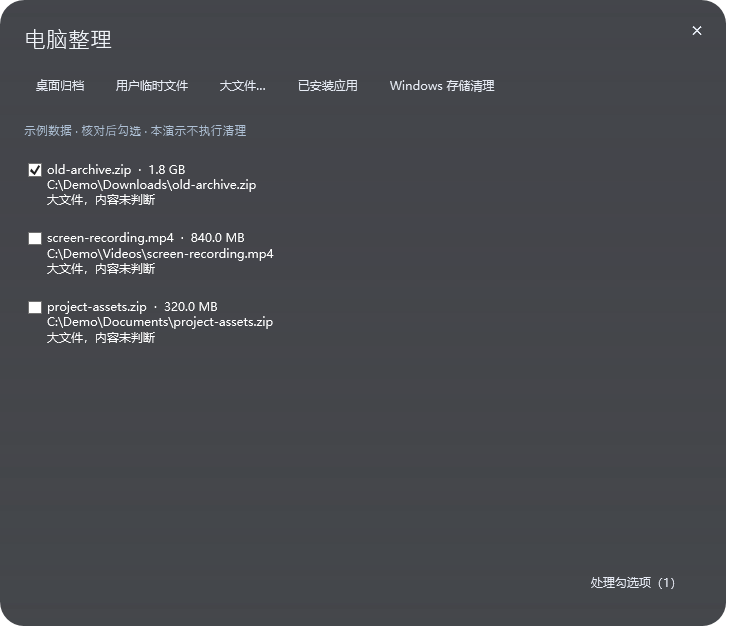
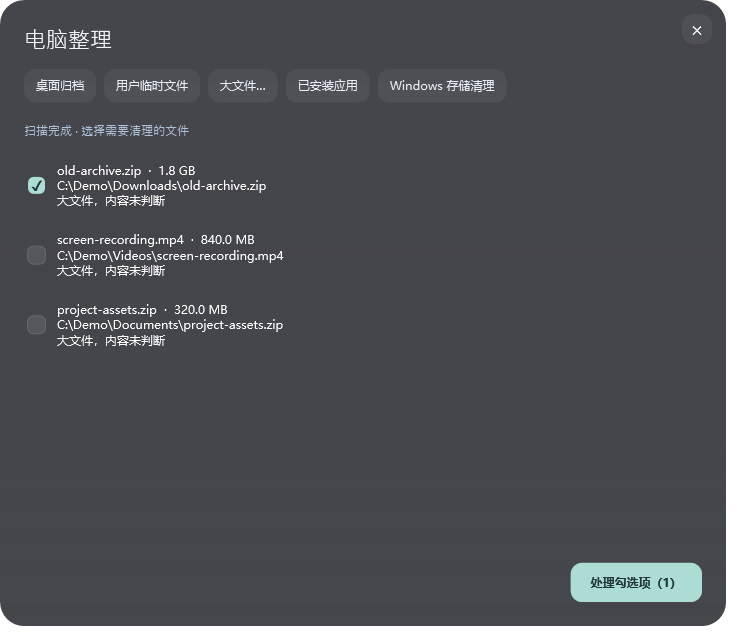
Publish refined film, updated screenshots and npm Windows release packaging

diff --git a/film/src/MinimalPromo.tsx b/film/src/MinimalPromo.tsx
@@ -19,8 +19,9 @@ const cameras=[
  {t:39.5,x:930,y:812,z:2.35}, {t:41.5,x:930,y:812,z:2.35},
  {t:43,x:800,y:800,z:1.4}, {t:46,x:800,y:800,z:1.4},
  {t:47.5,x:800,y:450,z:1.12}, {t:55.5,x:800,y:450,z:1.16},
- {t:57,x:800,y:450,z:1.16}, {t:58,x:620,y:610,z:1.3},
- {t:59.5,x:440,y:805,z:2.05}, {t:62,x:440,y:805,z:2.05},
+ {t:57,x:800,y:450,z:1.16}, {t:58,x:700,y:410,z:1.5},
+ {t:58.6,x:650,y:470,z:1.6}, {t:59.1,x:540,y:640,z:1.8},
+ {t:59.8,x:440,y:805,z:2.05}, {t:62,x:440,y:805,z:2.05},
  {t:64,x:800,y:800,z:1.4}, {t:66,x:800,y:800,z:1.43},
 ];
 const Native:React.FC=()=>{

diff --git a/src/FluidDock.cs b/src/FluidDock.cs
@@ -162,7 +162,7 @@ baseWidth=x;if(plateWidth<=0)plateWidth=baseWidth;LayoutDock();if(search!=null)s
  ContextMenu Menu(){
  var m=new ContextMenu();MenuAction(m,"搜索应用    Ctrl + 空格",ToggleSearch);MenuAction(m,"添加软件…",()=>OpenManager("add"));MenuAction(m,"一键配置…",OpenSetup);MenuAction(m,"电脑整理…",OpenCare);MenuAction(m,"小助手",()=>OpenManager("assistant"));MenuAction(m,"移除入口…",()=>OpenManager("remove"));MenuAction(m,"添加搜索目录…",ChooseSearchRoot);MenuAction(m,"按使用习惯智能整理",()=>SortSmart(true));MenuAction(m,"使用统计",()=>OpenCategory("统计"));MenuAction(m,"管理隐藏应用",()=>OpenCategory("隐藏"));
  var hideItem=new MenuItem{Header="自动收起",IsCheckable=true,IsChecked=Settings.AutoHide};hideItem.Click+=(s,e)=>{Settings.AutoHide=hideItem.IsChecked;Persist();};m.Items.Add(hideItem);
- var reduce=new MenuItem{Header="减少动态效果",IsCheckable=true,IsChecked=Settings.ReducedMotion};reduce.Click+=(s,e)=>{Settings.ReducedMotion=reduce.IsChecked;Persist();Wake();};m.Items.Add(reduce);MenuAction(m,"显示桌面文件",DesktopSurface.Restore);MenuAction(m,"隐藏桌面文件",DesktopSurface.HideIcons);MenuAction(m,"退出 Dock",Close);return m;
+ var reduce=new MenuItem{Header="减少动态效果",IsCheckable=true,IsChecked=Settings.ReducedMotion};reduce.Click+=(s,e)=>{Settings.ReducedMotion=reduce.IsChecked;ThemeState.ReducedMotion=Settings.ReducedMotion;Persist();Wake();};m.Items.Add(reduce);MenuAction(m,"显示桌面文件",DesktopSurface.Restore);MenuAction(m,"隐藏桌面文件",DesktopSurface.HideIcons);MenuAction(m,"退出 Dock",Close);return m;
  }
  public ContextMenu EntryMenu(Entry e){
  var m=new ContextMenu();MenuAction(m,"打开 "+e.Name,()=>Launch(e));if(!Utility(e)){

diff --git a/src/Maintenance.cs b/src/Maintenance.cs
@@ -91,7 +91,7 @@ public sealed partial class CareWindow:GlassWindow {
             UpdateCount();
         }));});
     }
-    void AddScannedItem(CareItem item){var cb=new CheckBox{Content=new TextBlock{Text=item.Label,TextWrapping=TextWrapping.Wrap,Foreground=Foreground,FontSize=12},Margin=new Thickness(4,10,4,10),IsChecked=false};cb.Checked+=(a,b)=>UpdateCount();cb.Unchecked+=(a,b)=>UpdateCount();selections.Add(Tuple.Create(cb,item));rows.Children.Add(cb);dock.RevealItem(cb);}
+    void AddScannedItem(CareItem item){var cb=new CheckBox{Content=new TextBlock{Text=item.Label,TextWrapping=TextWrapping.Wrap,Foreground=Foreground,FontSize=12},Margin=new Thickness(4,10,4,10),IsChecked=false};cb.Checked+=(a,b)=>UpdateCount();cb.Unchecked+=(a,b)=>UpdateCount();selections.Add(Tuple.Create(cb,item));rows.Children.Add(cb);dock.RevealItem(cb,selections.Count-1);}
     void UpdateCount(){int n=selections.Count(p=>p.Item1.IsChecked==true);execute.Content="处理勾选项（"+n+"）";execute.IsEnabled=!busy&&n>0;}
     void Confirm(){
         var chosen=selections.Where(p=>p.Item1.IsChecked==true).Select(p=>p.Item2).ToArray();if(chosen.Length==0||busy)return;

diff --git a/film/tools/score.py b/film/tools/score.py
@@ -52,6 +52,12 @@ for hit in [0,2,6,13,17,20,24,27,30,32,35,38,41.5,44,49,52,55,59.5,62,66,68]:
     put(noise*ramp*.025,max(0,hit-.17),.5,-.2)
     t=clock(.15);put(np.sin(2*np.pi*(95*t-22*t*t))*np.exp(-t*34),hit,.14)
 
+# Quiet landing cues follow the native actor's contact frames.
+for contact in [19.42,22.62,29.42,37.42,40.62,61.92]:
+    t=clock(.095)
+    pop=(np.sin(2*np.pi*(780*t-1800*t*t))*.48+np.sin(2*np.pi*132*t)*.7)*np.exp(-t*54)
+    put(pop,contact,.075)
+
 t=np.arange(len(audio))/RATE
 fade=np.minimum(1,t/.08)*np.minimum(1,np.maximum(0,(SECONDS-t)/1.2))
 audio=np.tanh(audio*1.8)*fade[:,None]

diff --git a/src/FluidMotion.cs b/src/FluidMotion.cs
@@ -34,5 +34,5 @@ public static class FluidMotion {
     }
 }
 public partial class Dock {
-    public void RevealItem(FrameworkElement element,int index=0){if(Settings.ReducedMotion)return;if(RecordingDemo)DemoReveal(element,index*3);else FluidMotion.Reveal(element,Math.Min(index,12)*.028);}
+    public void RevealItem(FrameworkElement element,int index=0){if(Settings.ReducedMotion||index>23)return;if(RecordingDemo)DemoReveal(element,index*3);else FluidMotion.Reveal(element,Math.Min(index,12)*.028);}
 }

diff --git a/film/README.md b/film/README.md
@@ -2,7 +2,7 @@
 
 70 秒，1920 × 1080，30 fps。主体为原生 WPF 控件录制，配基础推拉运镜；没有大段说明、编号卡片或装饰图层。
 
-故事：空 Dock → 一键配置 → 添加应用 → 调整相对顺序 → 建立开发分组 → 查看底座 → 扫描和勾选清理项。
+故事：空 Dock → 一键配置 → 添加应用 → 调整相对顺序 → 建立开发分组 → 查看底座 → 流式扫描 → 勾选确认 → Bot 投放回收站。
 
 录制使用隔离的数据目录。软件名称和图标是经用户选择的演示素材，入口可能是演示用配置；不实际启动软件、不读取 UserAssist、不清理个人文件。录制器对添加、排序和分组结果做检查，失败则停止输出成功记录。渲染源来自 WPF 视觉树，桌面、其他进程及 DWM 背景不录入。
 
@@ -30,3 +30,5 @@ node node_modules/@remotion/cli/remotion-cli.js render src/index.tsx DockBotProm
 `tools/score.py` 合成原创电子器乐 **Clear Space**：120 BPM、70 秒、立体声，包含和弦、拨弦音色、贝斯与鼓组，没有外部采样或下载曲目。源代码按项目 MIT 许可提供。主要镜头与交互变化落在半秒节拍上。
 
 最终交付前检查开头、配置、添加、排序、分组、扫描和结尾关键帧，并检查音视频时长、解码、响度与非静音。原生演示使用本机固定的示例数据，不代表软件发现率或所有用户表达的识别准确率。
+
+最终发行影片以 FFmpeg 合成，使用同一套运镜关键点和原生动画素材；避免在低内存环境中逐帧抓取高分辨率视频导致失败。
